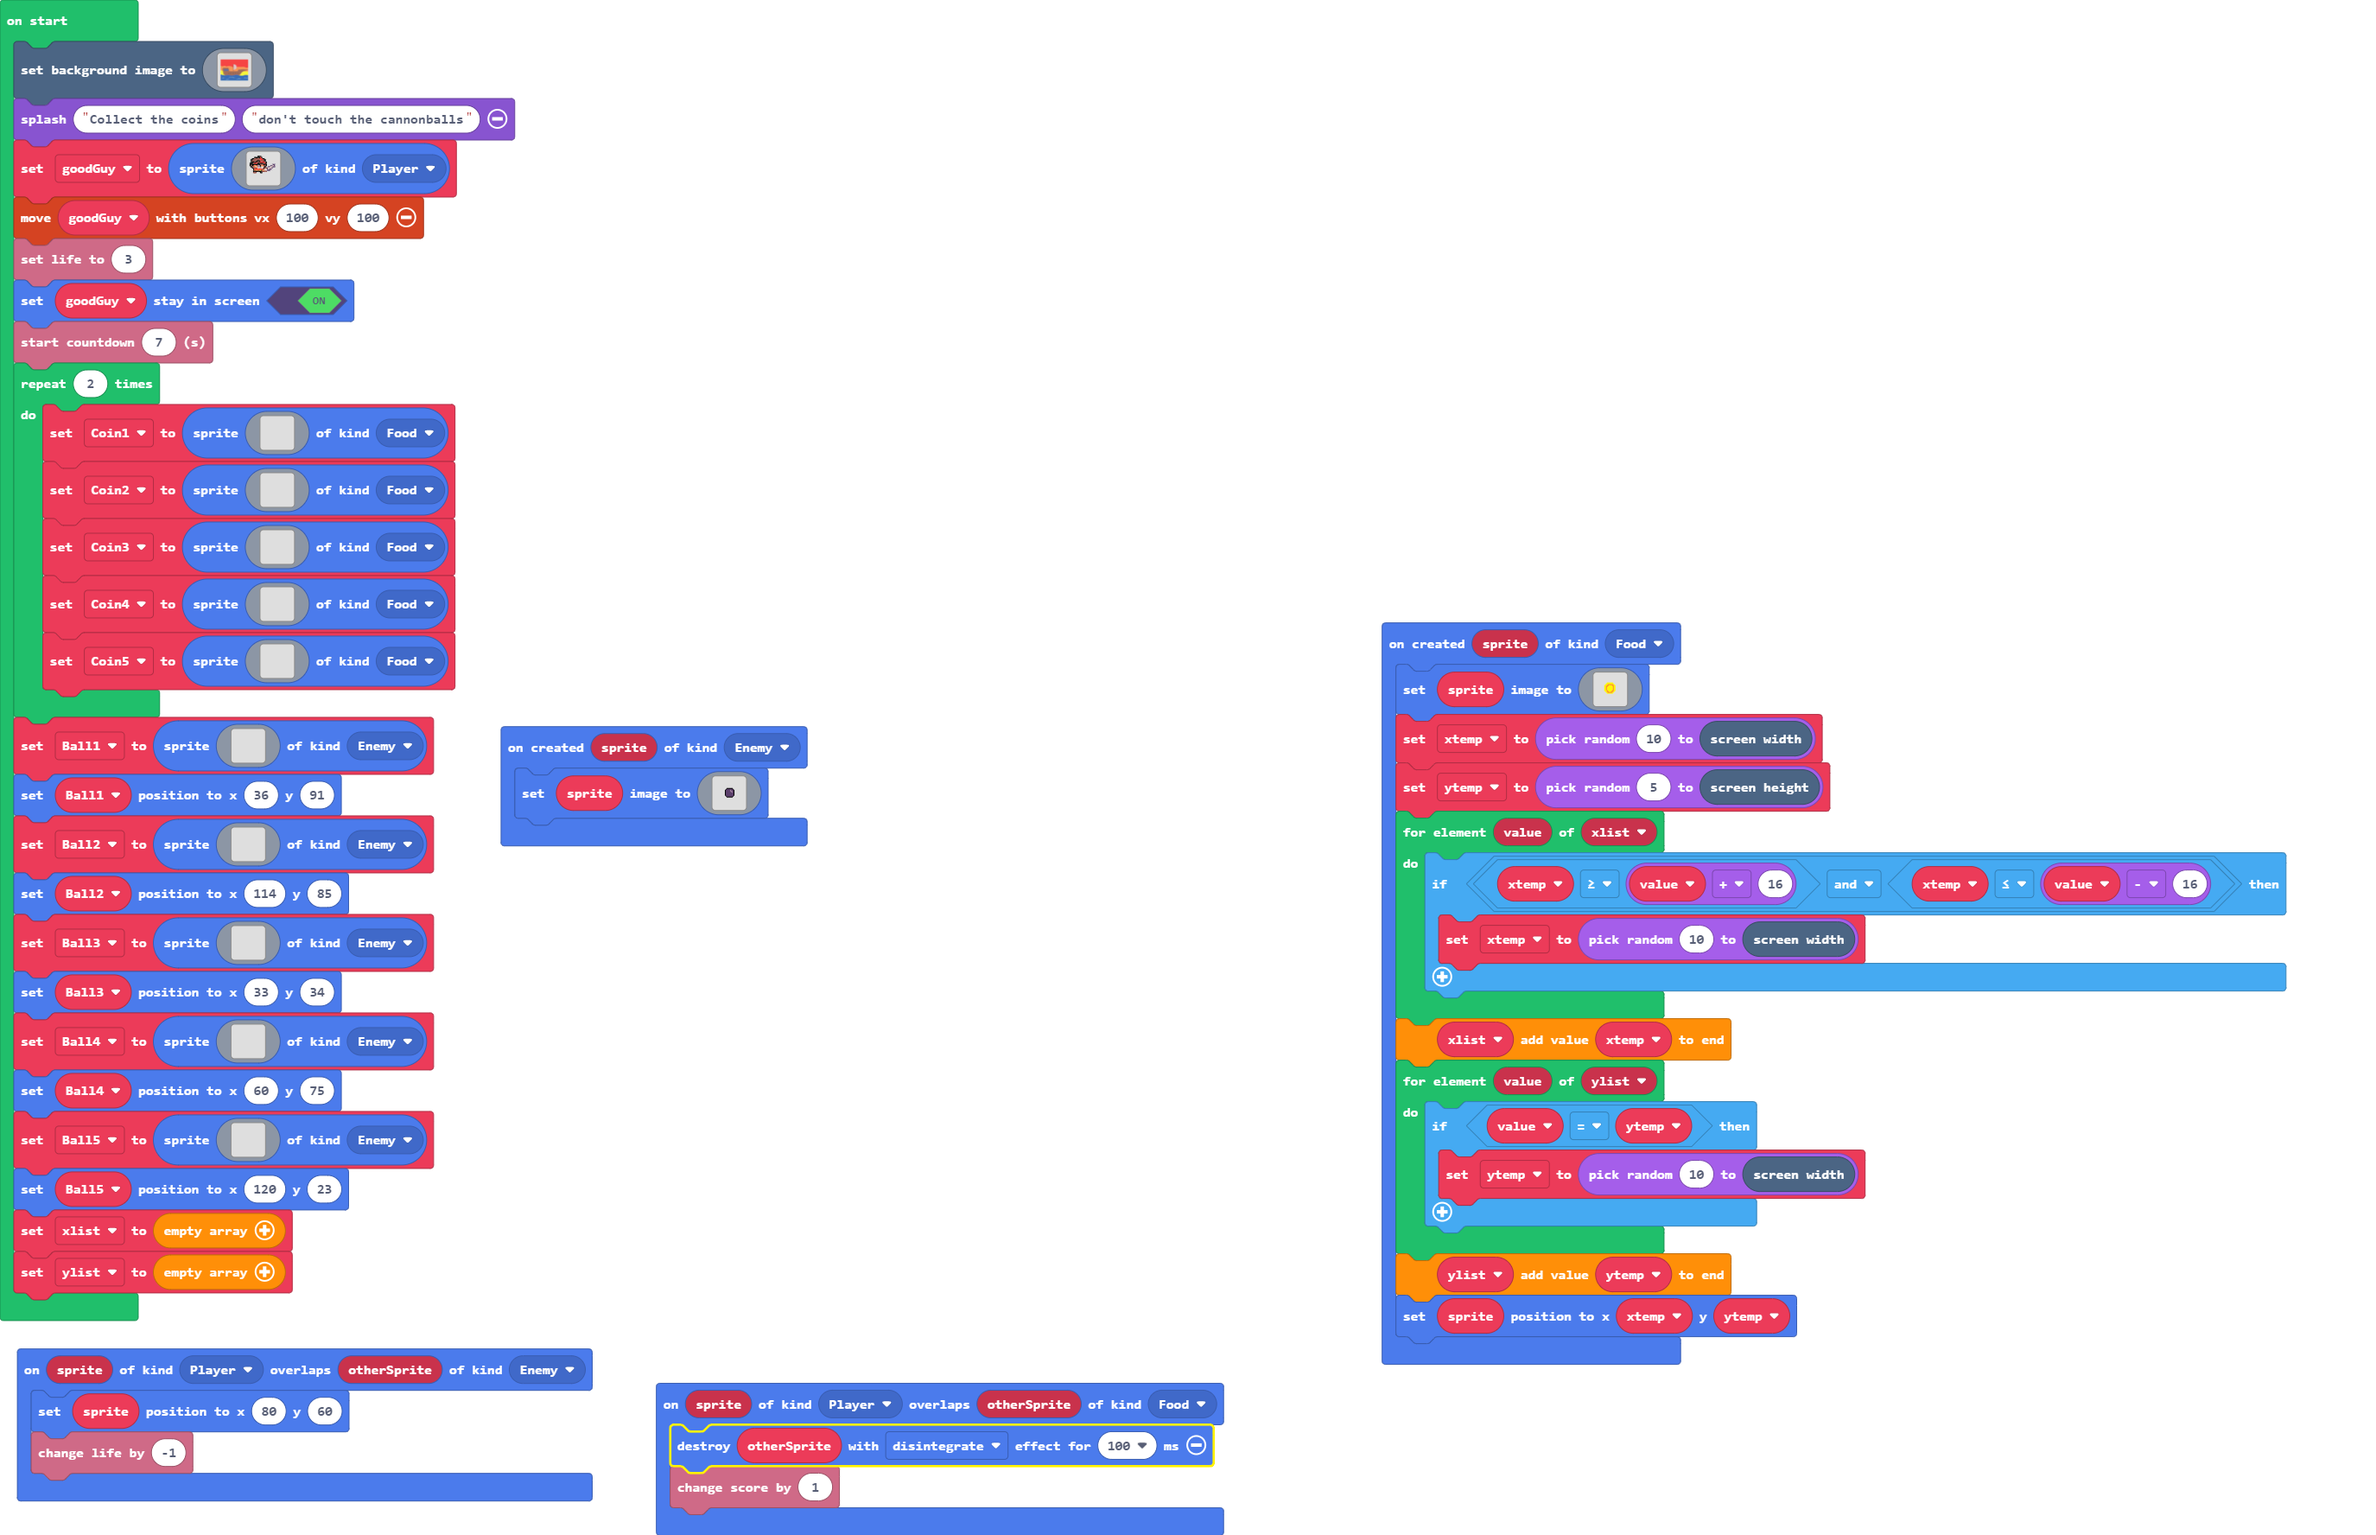
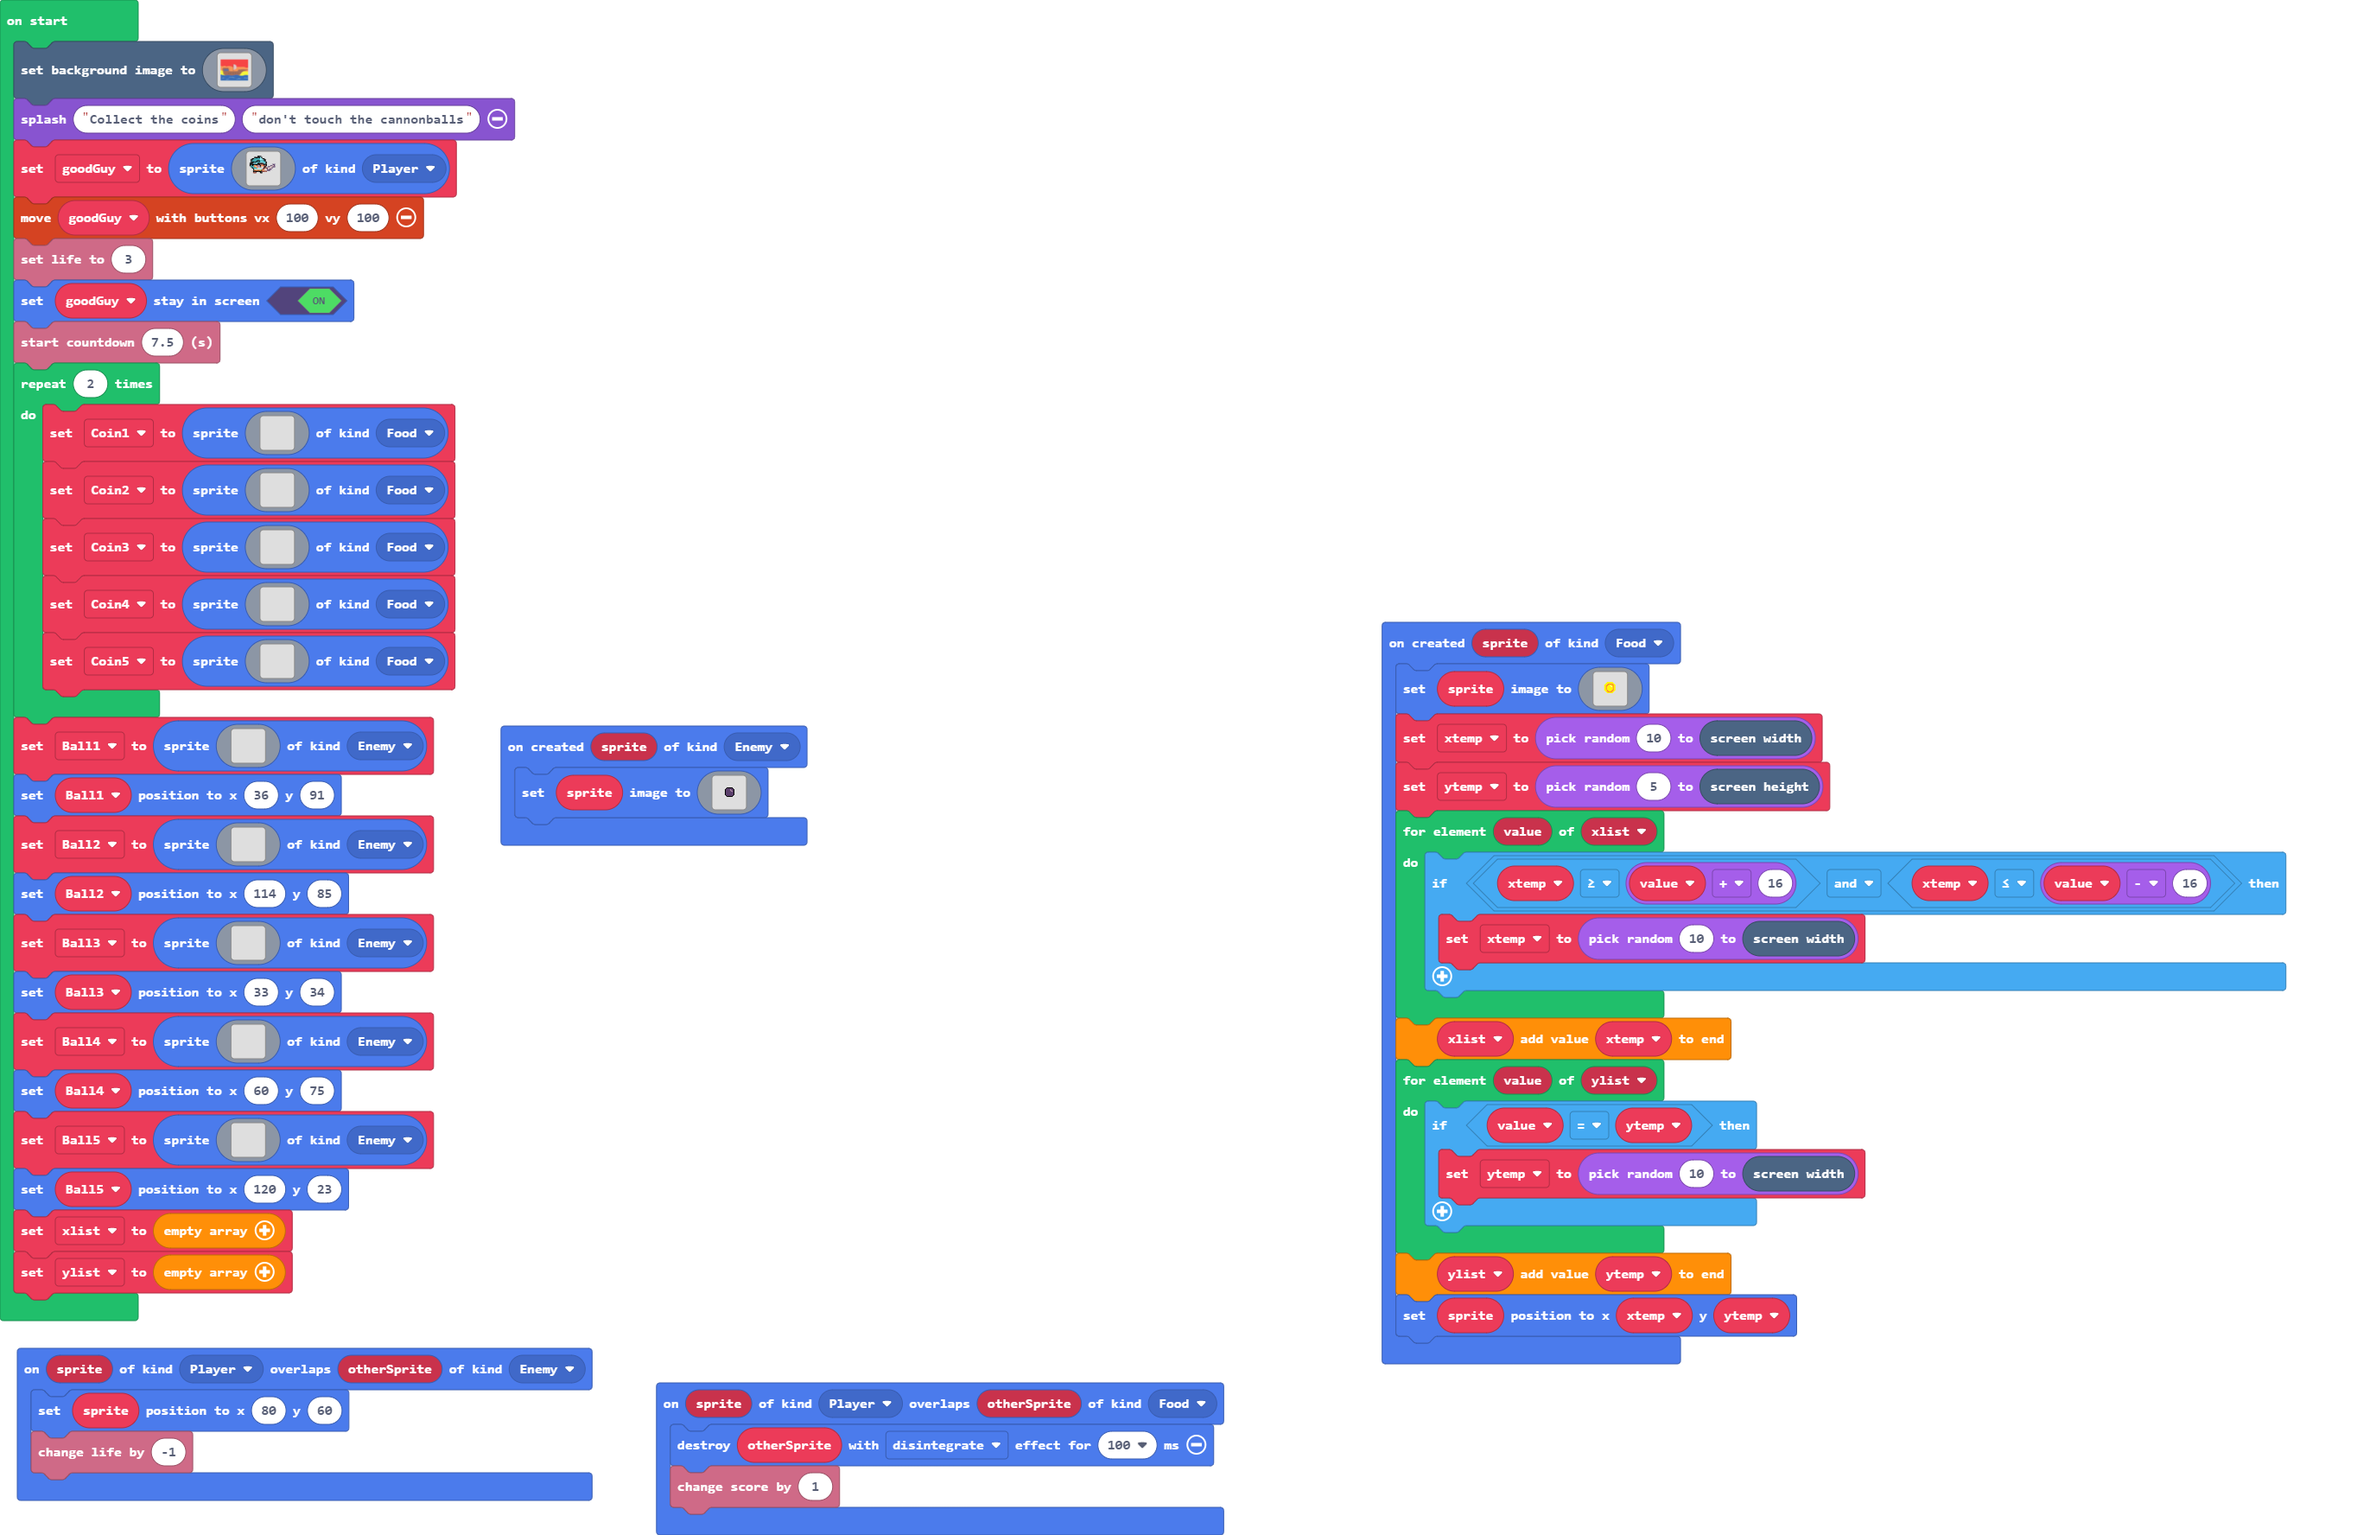
Update main.blocks, main.ts

diff --git a/main.ts b/main.ts
@@ -48,8 +48,8 @@ sprites.onCreated(SpriteKind.Food, function (sprite) {
         ...........555555555............
         ..........55544444455...........
         .........5554455554455..........
-        .........5544555555455..........
-        .........5545555555455..........
+        .........5544555155455..........
+        .........5545555515455..........
         .........5545555555455..........
         .........5545555555455..........
         .........5545555555455..........
@@ -228,17 +228,17 @@ game.splash("Collect the coins", "don't touch the cannonballs")
 let goodGuy = sprites.create(img`
     ........................
     .......fff..............
-    ....fffff2f.............
-    ..ffeeeee22ff...........
-    .ffeeeeee222ff..........
-    .feeeefffeeeef..........
-    .fffffeee2222ef.........
-    fffe222fffffe2f.........
+    ....fffff9f.............
+    ..ff6666699ff...........
+    .ff666666999ff..........
+    .f6666fff6666f..........
+    .fffff66699996f.........
+    fff6999fffff69f.........
     fffffffffeeefff.....cc..
-    fefe44ebbf44eef...ccdc..
-    .fee4d4bbfddef..ccddcc..
-    ..feee4dddddfeecdddc....
-    ...f2222222eeddcdcc.....
+    f6f644ebbf44eef...ccdc..
+    .6664d4bbfddef..ccddcc..
+    ..f6664dddddfeecdddc....
+    ...f9999999eeddcdcc.....
     ...f444445e44ddccc......
     ...ffffffffeeee.........
     ...eee...ff.............
@@ -254,7 +254,7 @@ let goodGuy = sprites.create(img`
 controller.moveSprite(goodGuy, 100, 100)
 info.setLife(3)
 goodGuy.setStayInScreen(true)
-info.startCountdown(7)
+info.startCountdown(7.5)
 for (let index = 0; index < 2; index++) {
     Coin1 = sprites.create(img`
         . . . . . . . . . . . . . . . . 
